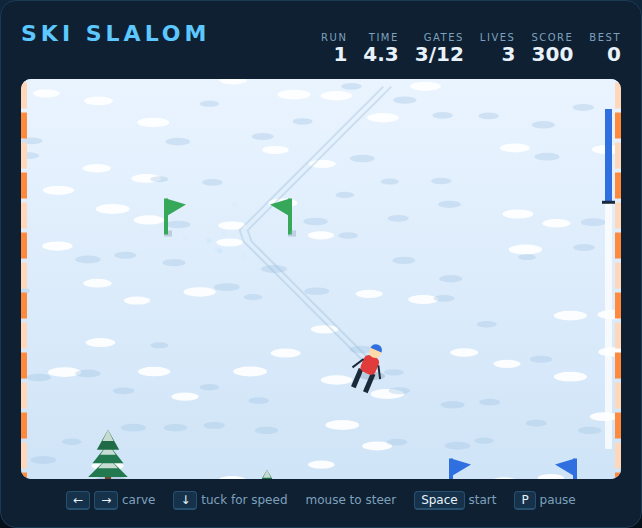
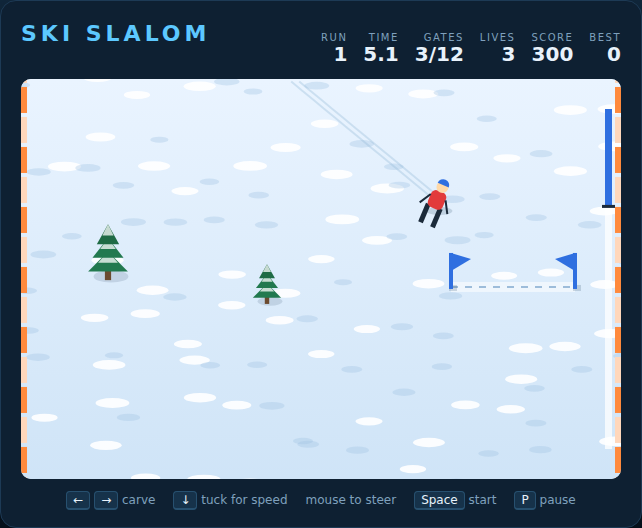
Tune Ski Slalom camera and pace for readable reaction time
The skier sat 285px down the canvas, leaving only ~115px of hill ahead —
under half a second to react to a tree. Ride high on the canvas instead
(120px) so obstacles rise into view, and trim cruising/tuck top speeds to
260/380 to match. Docs and screenshot updated.

Claude-Session: https://claude.ai/code/session_01ByZsUur1YFjvfUyRzqcQgT

diff --git a/SkiSlalom/game.js b/SkiSlalom/game.js
@@ -19,7 +19,10 @@
 const CANVAS_W = 600;
 const CANVAS_H = 400;
 const COURSE_W = 600;          // lateral width of the piste (== canvas width)
-const SKIER_SCREEN_Y = 285;    // y the skier is drawn at; the world scrolls past
+// The skier rides high on the canvas so most of the screen is hill *ahead* of
+// them — obstacles rise into view from the bottom, as in the classic skiing
+// games. At cruising speed that is a little over a second of reaction time.
+const SKIER_SCREEN_Y = 120;
 const SKIER_R = 9;
 
 // --- Course layout ---
@@ -41,8 +44,8 @@ const TREE_MIN_GAP = 30;       // keep trees from stacking on top of each other
 const TREE_START_CLEAR = 160;  // no trees in the first stretch of the course
 
 // --- Skiing physics (all per second) ---
-const BASE_MAX = 300;          // cruising top speed
-const TUCK_MAX = 430;          // top speed while tucked
+const BASE_MAX = 260;          // cruising top speed
+const TUCK_MAX = 380;          // top speed while tucked
 const ACCEL = 220;
 const BRAKE = 420;
 const STEER_SPEED = 230;       // lateral speed while carving
@@ -447,7 +450,7 @@ function draw() {
         ctx.fillStyle = '#0d3c61';
         ctx.font = 'bold 30px system-ui, sans-serif';
         ctx.textAlign = 'center';
-        ctx.fillText(`RUN ${run - 1} CLEARED`, CANVAS_W / 2, 90);
+        ctx.fillText(`RUN ${run - 1} CLEARED`, CANVAS_W / 2, 240);
         ctx.globalAlpha = 1;
         ctx.textAlign = 'left';
     }

diff --git a/SkiSlalom/DESIGN.md b/SkiSlalom/DESIGN.md
@@ -21,7 +21,10 @@ ground.
 The world is a vertical strip 600 units wide (the canvas width) and
 `courseLength()` units tall. The skier is always drawn at a fixed screen `y`
 (`SKIER_SCREEN_Y`) and the world scrolls past them, so the camera is just
-`worldTop = skier.y - SKIER_SCREEN_Y`.
+`worldTop = skier.y - SKIER_SCREEN_Y`. That fixed `y` is 120 — high on the
+canvas — so roughly 280px of the screen is hill *ahead* of the skier and
+obstacles rise into view from the bottom. At cruising speed that is a little
+over a second of reaction time.
 
 A course is `GATES_PER_RUN` (12) gates spaced `GATE_SPACING` (260) apart, with a
 `RUN_OUT` of 220 after the last gate before the finish banner — 3320 units in
@@ -47,7 +50,7 @@ reproducible in tests, and difficulty can be a pure function of the seed:
 All motion is per second and advanced by `step(dt)`:
 
 - Speed climbs toward a target at `ACCEL` and falls toward it at `BRAKE`.
-- The target is `BASE_MAX` (300), or `TUCK_MAX` (430) while tucking, minus
+- The target is `BASE_MAX` (260), or `TUCK_MAX` (380) while tucking, minus
   `STEER_DRAG` (70) whenever the skier is carving. Straight-lining is fast;
   turning costs you.
 - Carving moves the skier sideways at `STEER_SPEED` (230), clamped to the piste.
@@ -75,7 +78,7 @@ Crossing `courseLength()` calls `finishRun()`: it pays `FINISH_BONUS` (500), a
 awarded up to `MAX_LIVES` (5), the clock resets, and a fresh course is built
 with the skier back at the top.
 
-Par time is `courseLength() / BASE_MAX + PAR_SLACK` — about 14.1s, i.e. slightly
+Par time is `courseLength() / BASE_MAX + PAR_SLACK` — about 15.8s, i.e. slightly
 more than a perfect straight-line descent at cruising speed, so beating par
 means tucking somewhere.
 

diff --git a/SkiSlalom/README.md b/SkiSlalom/README.md
@@ -28,13 +28,13 @@ Each **run** is a course of 12 slalom gates ending at a finish banner.
 - **Hit a tree** and you go down: you lose a life and 1.1 seconds sprawled in
   the snow. Three crashes and the day is over.
 - **Cross the finish line** for a 500 point bonus, a time bonus of 25 points per
-  second saved against par (~14.1s), and 300 more for a clean run with no gates
+  second saved against par (~15.8s), and 300 more for a clean run with no gates
   missed. You also get a life back, up to five.
 
 Every run after the first has narrower gates and more trees. Score carries over
 between runs; your best is saved in the browser.
 
-Tucking raises your top speed from 300 to 430, but carving a turn costs speed —
+Tucking raises your top speed from 260 to 380, but carving a turn costs speed —
 so the fast line is the one that needs the fewest corrections.
 
 ## Development
